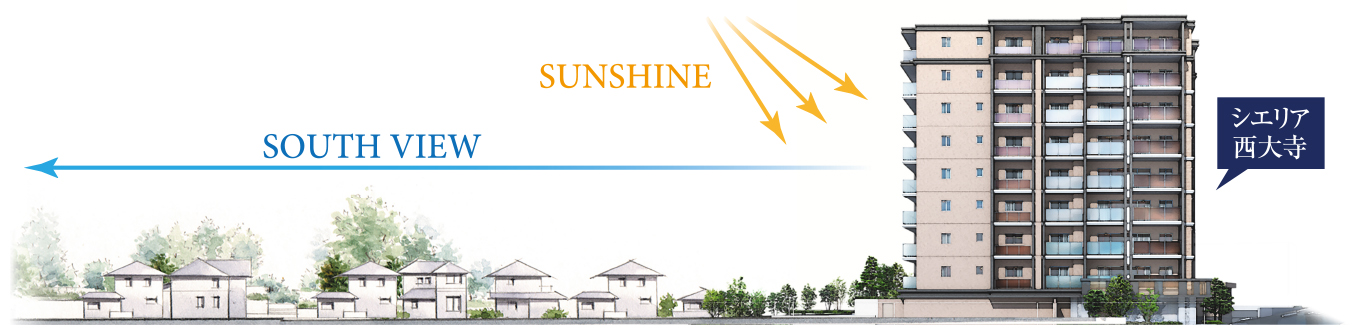
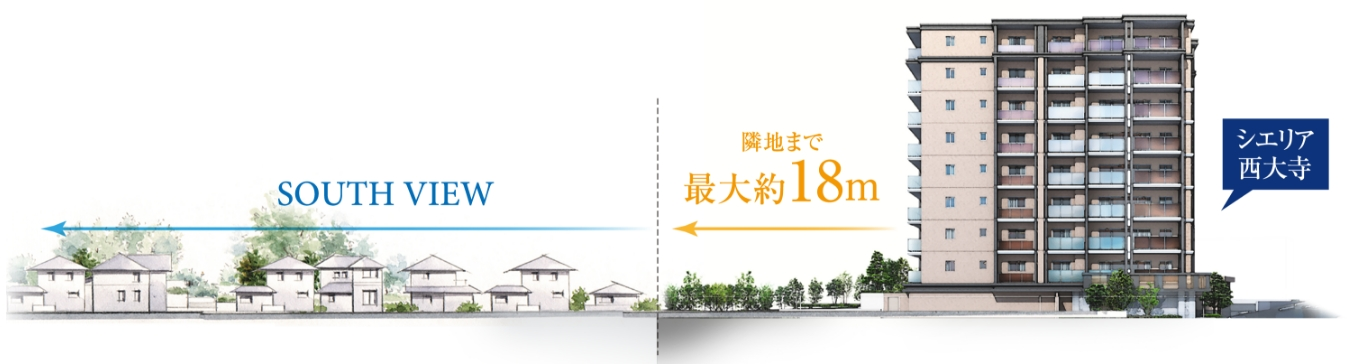
no message

diff --git a/design/index.html b/design/index.html
@@ -177,14 +177,19 @@ j=d.createElement(s),dl=l!='dataLayer'?'&l='+l:'';j.async=true;j.src=
         <p class="commonLead">敷地南側は低層住宅地であり、戸建て住宅中心の落ち着いた街並みが広がるエリア。大きな空と点在する緑に囲まれたランドスケープが大きな魅力です。空き地も少なく、将来にわたって明るく伸びやかな開放感の維持が期待できます。</p>
 
 <!--        <figure>-->
-          <figure class="commonSpModalImage" data-spmodal="images/img06.jpg">
+        <figure class="commonSpModalImage" data-spmodal="images/img06.jpg">
           <img src="images/img06.jpg" alt="">
           <figcaption class="commonImgcap">眺望写真（現地9階相当）</figcaption>
         </figure>
+        
+      </section>
+        
+      <section class="commonSection">
+        <h4 class="commonBigTitle01">建物の南面には隣接する街並みまで、最大約18mの距離を確保。<br class="pcView">開放感やプライバシー性に配慮。</h4>
+        <p class="commonLead">敷地南面は最大約18mの離隔があり、音や視線が気になりにくい程よい距離を確保し、プライバシーに配慮した設計となっています。また、南面は低層住宅地で開放感、眺望も享受できます。</p>
 
-<!--        <figure>-->
-          <figure class="commonSpModalImage" data-spmodal="images/img04.jpg">
-          <img src="images/img04.jpg" alt="" style="margin-top: 3%;">
+        <figure class="commonSpModalImage" data-spmodal="images/img04.jpg">
+          <img src="images/img04.jpg" alt="" style="margin-top: 1%;">
           <figcaption class="commonImgcap">立地概念図</figcaption>
         </figure>
         
@@ -195,8 +200,8 @@ j=d.createElement(s),dl=l!='dataLayer'?'&l='+l:'';j.async=true;j.src=
         <p class="commonLead">マンションでありながら、戸建ての感覚で暮らせる屋外空間が広がるテラス付き住戸。<br>住居専有面積にテラス面積がプラスされ、プライベート空間が広がります。さらに共用部にもデザイナーが監修したこだわりの植栽計画を配しました。</p>
         
        <figure class="commonSpModalImage" data-spmodal="images/img10.jpg">
-          <img src="images/img10.jpg" alt="" style="margin-top: 3%;">
-          <figcaption class="commonImgcap">テラス</figcaption>
+          <img src="images/img10.jpg" alt="">
+          <figcaption class="commonImgcap">Dgタイプバーチャルモデルルーム写真（テラス）</figcaption>
         </figure>
       </section>
 		
@@ -223,7 +228,7 @@ j=d.createElement(s),dl=l!='dataLayer'?'&l='+l:'';j.async=true;j.src=
 <script type="text/javascript">parts('../','banners.html');</script>
 
     <div class="commonEndCaptions">
-      ※掲載の完成予想図及び敷地配置イメージイラストは計画段階の図面を基に描いたもので、施工上の都合又は行政官庁の指導や事業主の都合により変更となる場合があります。なお、植栽は特定の季節の状況を表現したものではなく、竣工時には予想図程度には成長しておりません。外観の細部・設備機器・配管類及び周辺建物等は一部省略又は簡略化しております。タイルや各種部材につきましては、実際と質感・色等の見え方が異なる場合があります。<br>※掲載の眺望写真（Gタイプ9階想定）は2022年7月に撮影したものに一部CG加工を施しています。<br>※眺望等は将来的に保証されるものではありません。</div>
+      ※掲載の完成予想図及び敷地配置イメージイラストは計画段階の図面を基に描いたもので、施工上の都合又は行政官庁の指導や事業主の都合により変更となる場合があります。なお、植栽は特定の季節の状況を表現したものではなく、竣工時には予想図程度には成長しておりません。外観の細部・設備機器・配管類及び周辺建物等は一部省略又は簡略化しております。タイルや各種部材につきましては、実際と質感・色等の見え方が異なる場合があります。<br>※掲載の眺望写真（Gタイプ9階想定）は2022年7月に撮影したものに一部CG加工を施しています。<br>※眺望等は将来的に保証されるものではありません。<br>※掲載の立地概念図は図面を基に描き起こしたものであり、実際とは異なる場合があります。植栽は、特定の季節の状況を表現したものではなく、竣工時には予想図程度には成長しておりません。<br>※掲載のバーチャルモデルルーム写真は、Dgタイプの図面を基に描いたイメージCGで実際とは異なります。タイプにより設備・仕様が異なります。また、家具・照明・植栽等の調度品は分譲価格に含まれておりません。建具等の⾊調につきましては、実際とは多少異なる場合があります。一部有償オプション（申込期限有）が含まれております。詳しくは係員にお尋ねください。尚、植栽は特定の季節や竣工時の状態を描いたものではありません。</div>
 
 <script type="text/javascript">parts('../','cieriaclub.html');</script>
 <script type="text/javascript">parts('../','footerContacts.html');</script>

diff --git a/member/plan/plan_eg_m2.html b/member/plan/plan_eg_m2.html
@@ -27,16 +27,16 @@ j=d.createElement(s),dl=l!='dataLayer'?'&l='+l:'';j.async=true;j.src=
 <meta name="Keywords" content="間取り,シエリア西大寺,奈良,奈良市,大和西大寺,西大寺,近鉄奈良線,近鉄京都線,近鉄橿原線,シエリア,新築,分譲,マンション,関電不動産開発" />
 <meta name="Description" content="間取り｜関電不動産開発がお届けする、新築分譲マンション「シエリア西大寺」の公式サイトです。近鉄「大和西大寺」駅徒歩7分、「大阪難波」駅・「京都」駅へ直結。奈良史上初、先進のZEH-M・低炭素建築物認定レジデンス。総61邸" />
 
-<title>【公式】Egタイプ｜資料請求者限定サイト｜間取り｜シエリア西大寺｜新築分譲マンション｜奈良史上初、先進のZEH-M・低炭素建築物認定レジデンス</title>
+<title>【公式】Egタイプ メニュー2｜資料請求者限定サイト｜間取り｜シエリア西大寺｜新築分譲マンション｜奈良史上初、先進のZEH-M・低炭素建築物認定レジデンス</title>
 
 <meta property="og:type" content="article">
-<meta property="og:url" content="https://www.cielia.com/m/saidaiji61/member/plan/plan_eg.html">
+<meta property="og:url" content="https://www.cielia.com/m/saidaiji61/member/plan/plan_eg_m2.html">
 <meta property="og:site_name" content="【公式】間取り｜資料請求者限定サイト｜シエリア西大寺｜新築分譲マンション｜奈良史上初、先進のZEH-M・低炭素建築物認定レジデンス">
 <meta property="og:title" content="【公式】間取り｜資料請求者限定サイト｜シエリア西大寺｜新築分譲マンション｜奈良史上初、先進のZEH-M・低炭素建築物認定レジデンス">
 <meta property="og:description" content="関電不動産開発がお届けする、新築分譲マンション「シエリア西大寺」の公式サイトです。近鉄「大和西大寺」駅徒歩7分、「大阪難波」駅・「京都」駅へ直結。奈良史上初、先進のZEH-M・低炭素建築物認定レジデンス。総61邸">
 <meta property="og:image" content="https://www.cielia.com/m/saidaiji61/crm/images/ogp.jpg">
 <meta name="robots" content="noindex, nofollow, noarchive">
-<link rel="canonical" href="https://www.cielia.com/m/saidaiji61/member/plan/plan_eg.html">
+<link rel="canonical" href="https://www.cielia.com/m/saidaiji61/member/plan/plan_eg_m2.html">
 
 <!-- CRM css start -->
 <link rel="stylesheet" type="text/css" href="../../crm/css/import.css" />
@@ -89,7 +89,7 @@ j=d.createElement(s),dl=l!='dataLayer'?'&l='+l:'';j.async=true;j.src=
       <div class="flex">
         <section class="texts">
           <h2 class="name">
-            <span class="type"><strong>Eg</strong>type</span><span class="tag">Basic</span>
+            <span class="type"><strong>Eg</strong>type</span><span class="tag">Menu2</span>
           </h2>
           <div class="ldks">
             <p><strong>3</strong>LDK+N+WIC</p>
@@ -125,7 +125,7 @@ j=d.createElement(s),dl=l!='dataLayer'?'&l='+l:'';j.async=true;j.src=
 -->
           <div class="backBtn pcView"><a href="index.html" class="fadeAction"><span>間取り一覧に戻る</span></a></div>
         </section>
-        <div class="image"><figure><img src="images/eg_floor.jpg" alt=""></figure><div class="guide"><img src="images/guide.svg" alt=""></div></div>
+        <div class="image"><figure><img src="images/eg_m2_floor.jpg" alt=""></figure><div class="guide"><img src="images/guide.svg" alt=""></div></div>
       </div>
       <div class="backBtn spView"><a href="index.html" class="fadeAction"><span>間取り一覧に戻る</span></a></div>
     </div>

diff --git a/special/column06.html b/special/column06.html
@@ -89,7 +89,7 @@ j=d.createElement(s),dl=l!='dataLayer'?'&l='+l:'';j.async=true;j.src=
 
     <div class="commonKeyvisual">
       <div class="imagearea">
-        <div class="imgCap">image photo</div>
+        <div class="imgCap">Dgタイプバーチャルモデルルーム写真（テラス）</div>
       </div>
       <div class="textArea">
         <div class="wide">
@@ -320,7 +320,7 @@ j=d.createElement(s),dl=l!='dataLayer'?'&l='+l:'';j.async=true;j.src=
 
 
     <div class="commonEndCaptions">
-      ※掲載の内容は2023年4月現在の情報となります。<br>※掲載のバーチャルモデルルーム動画はDgタイプのため、その他タイプとは異なります。<br>※掲載の完成予想バーチャルモデルは計画中の図面を基に描き起こした完成予想図で施工上の都合または行政官庁の指導改良などにより仕上、形状、植栽、色彩等を変更する場合があり実際とは多少異なります。尚、植栽は特定の季節や竣工時の状態を描いたものではありません。</div>
+      ※掲載のバーチャルモデルルーム写真は、Dgタイプの図面を基に描いたイメージCGで実際とは異なります。タイプにより設備・仕様が異なります。また、家具・照明・植栽等の調度品は分譲価格に含まれておりません。建具等の⾊調につきましては、実際とは多少異なる場合があります。一部有償オプション（申込期限有）が含まれております。詳しくは係員にお尋ねください。尚、植栽は特定の季節や竣工時の状態を描いたものではありません。<br>※掲載のバーチャルモデルルーム動画はDgタイプのため、その他タイプとは異なります。<br>※掲載の内容は2023年4月現在の情報となります。</div>
 
 <script type="text/javascript">parts('../','cieriaclub.html');</script>
 <script type="text/javascript">parts('../','footerContacts.html');</script>

diff --git a/member/plan/index.html b/member/plan/index.html
@@ -114,7 +114,7 @@ j=d.createElement(s),dl=l!='dataLayer'?'&l='+l:'';j.async=true;j.src=
           <li><a href="plan_e_m2.html" class="new"><img src="../../plan/images/btn_e_m2.jpg" alt=""></a></li>
           <li><a href="plan_f.html" class="new"><img src="../../plan/images/btn_f.jpg" alt=""></a></li>
 -->
-          <li><a href="plan_eg.html" class="new"><img src="../../plan/images/btn_eg.jpg" alt=""></a></li>
+          <li><a href="plan_eg_m2.html" class="new"><img src="../../plan/images/btn_eg_m2.jpg" alt=""></a></li>
           <li><a href="plan_fg.html" class="new"><img src="../../plan/images/btn_fg.jpg" alt=""></a></li>
         </ul>
 
